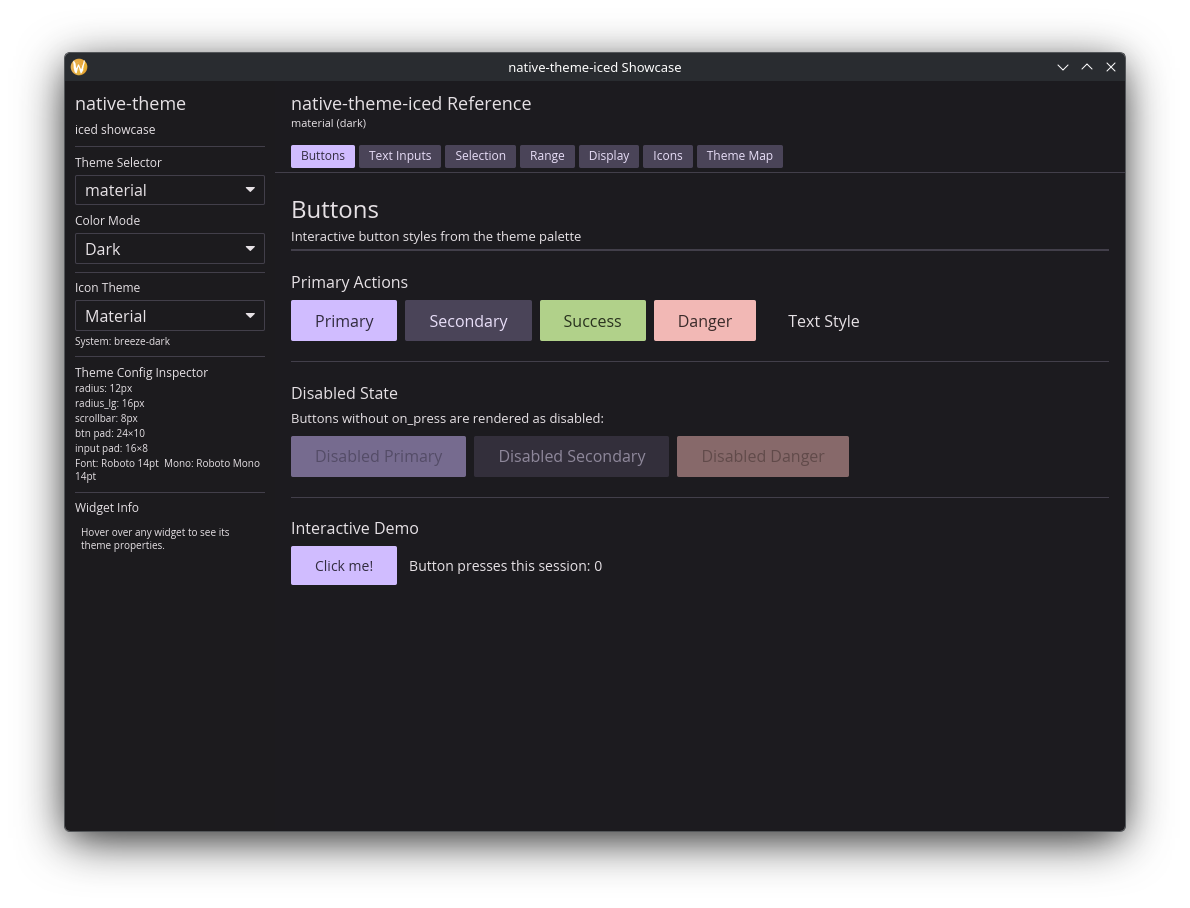
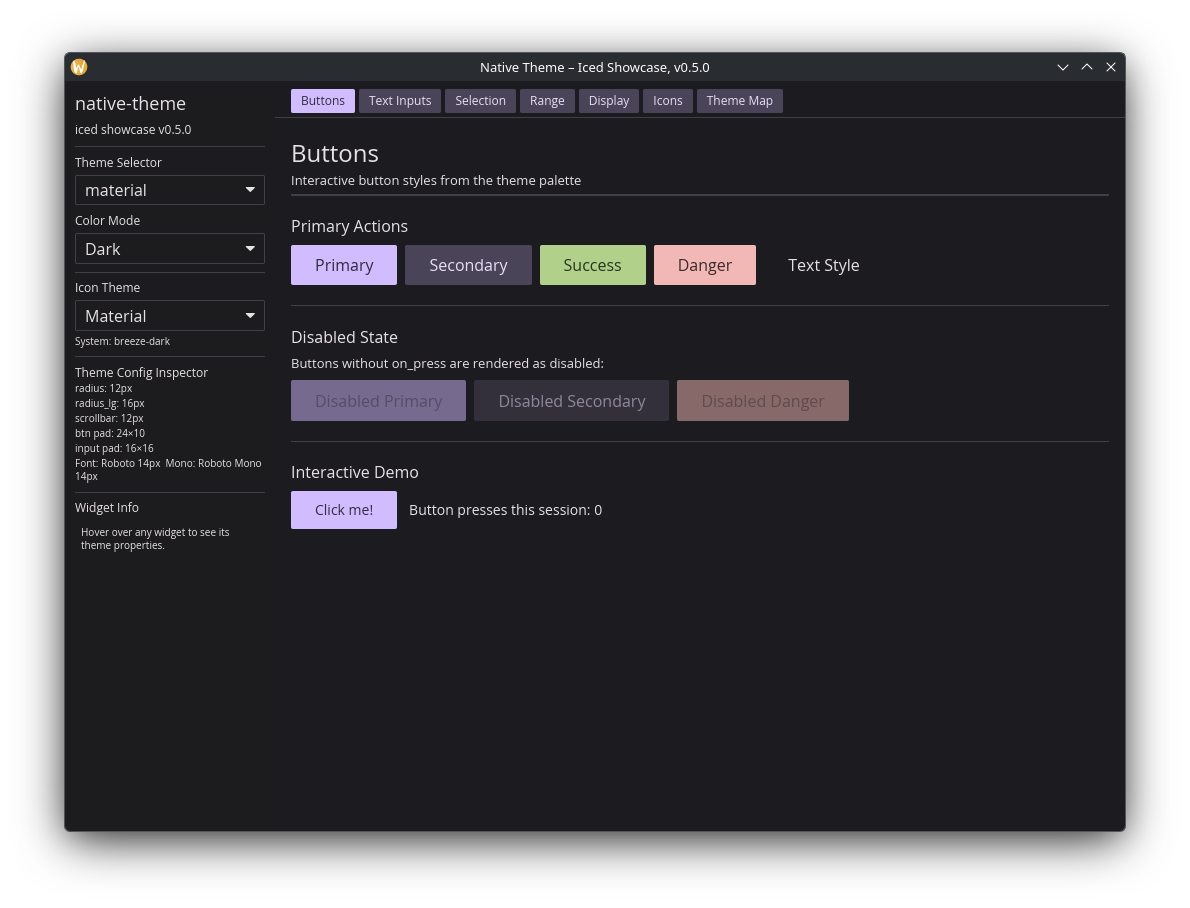
fix: objc2 0.6 unsafe removal, windows cfg fallback, updated screenshots
- Remove unnecessary unsafe blocks for objc2 0.6 APIs (NSColor, NSFont,
  NSAppearance, NSWorkspace methods are now safe)
- Fix read_widget_sizing fallback cfg: not(target_os) → not(all(target_os, feature))
- Update scripts/README.md command style (bash scripts/ → ./)
- Refresh Linux showcase screenshots for v0.5.0 per-widget themes

Changed region(s): [[0.1244, 0.0617, 0.9328, 0.6476]]

diff --git a/native-theme/src/macos.rs b/native-theme/src/macos.rs
@@ -23,11 +23,11 @@ use objc2_foundation::{NSDictionary, NSNumber, NSString};
 /// color cannot be converted (e.g., pattern colors).
 #[cfg(all(target_os = "macos", feature = "macos"))]
 fn nscolor_to_rgba(color: &NSColor, srgb: &NSColorSpace) -> Option<crate::Rgba> {
-    let srgb_color = unsafe { color.colorUsingColorSpace(srgb) }?;
-    let r = unsafe { srgb_color.redComponent() } as f32;
-    let g = unsafe { srgb_color.greenComponent() } as f32;
-    let b = unsafe { srgb_color.blueComponent() } as f32;
-    let a = unsafe { srgb_color.alphaComponent() } as f32;
+    let srgb_color = color.colorUsingColorSpace(srgb)?;
+    let r = srgb_color.redComponent() as f32;
+    let g = srgb_color.greenComponent() as f32;
+    let b = srgb_color.blueComponent() as f32;
+    let a = srgb_color.alphaComponent() as f32;
     Some(crate::Rgba::from_f32(r, g, b, a))
 }
 
@@ -50,34 +50,34 @@ struct PerWidgetColors {
 /// dynamic colors resolve to the correct appearance.
 #[cfg(all(target_os = "macos", feature = "macos"))]
 fn read_appearance_colors() -> (crate::ThemeDefaults, PerWidgetColors) {
-    let srgb = unsafe { NSColorSpace::sRGBColorSpace() };
+    let srgb = NSColorSpace::sRGBColorSpace();
 
     // Bind all NSColor temporaries before borrowing them.
-    let label_c = unsafe { NSColor::labelColor() };
-    let control_accent = unsafe { NSColor::controlAccentColor() };
-    let window_bg = unsafe { NSColor::windowBackgroundColor() };
-    let control_bg = unsafe { NSColor::controlBackgroundColor() };
-    let separator_c = unsafe { NSColor::separatorColor() };
-    let secondary_label = unsafe { NSColor::secondaryLabelColor() };
-    let shadow_c = unsafe { NSColor::shadowColor() };
-    let alt_sel_text = unsafe { NSColor::alternateSelectedControlTextColor() };
-    let system_red = unsafe { NSColor::systemRedColor() };
-    let system_orange = unsafe { NSColor::systemOrangeColor() };
-    let system_green = unsafe { NSColor::systemGreenColor() };
-    let system_blue = unsafe { NSColor::systemBlueColor() };
-    let sel_content_bg = unsafe { NSColor::selectedContentBackgroundColor() };
-    let sel_text = unsafe { NSColor::selectedTextColor() };
-    let link_c = unsafe { NSColor::linkColor() };
-    let focus_c = unsafe { NSColor::keyboardFocusIndicatorColor() };
-    let disabled_text = unsafe { NSColor::disabledControlTextColor() };
+    let label_c = NSColor::labelColor();
+    let control_accent = NSColor::controlAccentColor();
+    let window_bg = NSColor::windowBackgroundColor();
+    let control_bg = NSColor::controlBackgroundColor();
+    let separator_c = NSColor::separatorColor();
+    let secondary_label = NSColor::secondaryLabelColor();
+    let shadow_c = NSColor::shadowColor();
+    let alt_sel_text = NSColor::alternateSelectedControlTextColor();
+    let system_red = NSColor::systemRedColor();
+    let system_orange = NSColor::systemOrangeColor();
+    let system_green = NSColor::systemGreenColor();
+    let system_blue = NSColor::systemBlueColor();
+    let sel_content_bg = NSColor::selectedContentBackgroundColor();
+    let sel_text = NSColor::selectedTextColor();
+    let link_c = NSColor::linkColor();
+    let focus_c = NSColor::keyboardFocusIndicatorColor();
+    let disabled_text = NSColor::disabledControlTextColor();
 
     // Additional per-widget color bindings (MACOS-03).
-    let placeholder_c = unsafe { NSColor::placeholderTextColor() };
-    let unemph_sel_bg = unsafe { NSColor::unemphasizedSelectedContentBackgroundColor() };
-    let alt_bg_colors = unsafe { NSColor::alternatingContentBackgroundColors() };
-    let header_text_c = unsafe { NSColor::headerTextColor() };
-    let grid_c = unsafe { NSColor::gridColor() };
-    let frame_text_c = unsafe { NSColor::windowFrameTextColor() };
+    let placeholder_c = NSColor::placeholderTextColor();
+    let unemph_sel_bg = NSColor::unemphasizedSelectedContentBackgroundColor();
+    let alt_bg_colors = NSColor::alternatingContentBackgroundColors();
+    let header_text_c = NSColor::headerTextColor();
+    let grid_c = NSColor::gridColor();
+    let frame_text_c = NSColor::windowFrameTextColor();
 
     let label = nscolor_to_rgba(&label_c, &srgb);
 
@@ -141,13 +141,13 @@ fn read_scrollbar_style(mtm: objc2::MainThreadMarker) -> Option<bool> {
 /// text_scaling_factor is derived by comparing the system font size to the default (13pt).
 #[cfg(all(target_os = "macos", feature = "macos"))]
 fn read_accessibility() -> (Option<bool>, Option<bool>, Option<bool>, Option<f32>) {
-    let workspace = unsafe { NSWorkspace::sharedWorkspace() };
+    let workspace = NSWorkspace::sharedWorkspace();
     let reduce_motion = Some(workspace.accessibilityDisplayShouldReduceMotion());
     let high_contrast = Some(workspace.accessibilityDisplayShouldIncreaseContrast());
     let reduce_transparency = Some(workspace.accessibilityDisplayShouldReduceTransparency());
 
     // Derive text scaling factor from system font size vs default 13pt.
-    let system_size = unsafe { NSFont::systemFontSize() } as f32;
+    let system_size = NSFont::systemFontSize() as f32;
     let text_scaling_factor = if (system_size - 13.0).abs() > 0.01 {
         Some(system_size / 13.0)
     } else {
@@ -178,7 +178,7 @@ fn nsfont_weight_to_css(font: &NSFont) -> Option<u16> {
     let weight_key: &NSString = unsafe { NSFontWeightTrait };
     let weight_obj = traits_dict.objectForKey(weight_key)?;
     // Safety: the weight trait value is an NSNumber wrapping a CGFloat.
-    let weight_num: &NSNumber = unsafe { &*(weight_obj as *const _ as *const NSNumber) };
+    let weight_num: &NSNumber = unsafe { &*(&*weight_obj as *const _ as *const NSNumber) };
     let w = unsafe { weight_num.doubleValue() };
 
     // Map AppKit weight range to CSS weight buckets.
@@ -209,7 +209,7 @@ fn nsfont_weight_to_css(font: &NSFont) -> Option<u16> {
 fn fontspec_from_nsfont(font: &NSFont) -> crate::FontSpec {
     crate::FontSpec {
         family: font.familyName().map(|n| n.to_string()),
-        size: Some(unsafe { font.pointSize() } as f32),
+        size: Some(font.pointSize() as f32),
         weight: nsfont_weight_to_css(font),
     }
 }
@@ -220,8 +220,8 @@ fn fontspec_from_nsfont(font: &NSFont) -> crate::FontSpec {
 /// (not per-appearance). Includes CSS weight extraction from the font descriptor.
 #[cfg(all(target_os = "macos", feature = "macos"))]
 fn read_fonts() -> (crate::FontSpec, crate::FontSpec) {
-    let system_size = unsafe { NSFont::systemFontSize() };
-    let system_font = unsafe { NSFont::systemFontOfSize(system_size) };
+    let system_size = NSFont::systemFontSize();
+    let system_font = NSFont::systemFontOfSize(system_size);
     let mono_font =
         unsafe { NSFont::monospacedSystemFontOfSize_weight(system_size, NSFontWeightRegular) };
 
@@ -236,9 +236,9 @@ fn read_fonts() -> (crate::FontSpec, crate::FontSpec) {
 /// Appearance-independent -- called once. Returns (menu, tooltip, title_bar).
 #[cfg(all(target_os = "macos", feature = "macos"))]
 fn read_per_widget_fonts() -> (crate::FontSpec, crate::FontSpec, crate::FontSpec) {
-    let menu_font = unsafe { NSFont::menuFontOfSize(0.0) };
-    let tooltip_font = unsafe { NSFont::toolTipsFontOfSize(0.0) };
-    let title_bar_font = unsafe { NSFont::titleBarFontOfSize(0.0) };
+    let menu_font = NSFont::menuFontOfSize(0.0);
+    let tooltip_font = NSFont::toolTipsFontOfSize(0.0);
+    let title_bar_font = NSFont::titleBarFontOfSize(0.0);
 
     (
         fontspec_from_nsfont(&menu_font),
@@ -289,7 +289,7 @@ fn compute_text_scale(system_size: f32) -> crate::TextScale {
 /// computation from the system font size.
 #[cfg(all(target_os = "macos", feature = "macos"))]
 fn read_text_scale() -> crate::TextScale {
-    let system_size = unsafe { NSFont::systemFontSize() } as f32;
+    let system_size = NSFont::systemFontSize() as f32;
     compute_text_scale(system_size)
 }
 
@@ -425,8 +425,8 @@ pub fn from_macos() -> crate::Result<crate::NativeTheme> {
     let light_name = NSString::from_str("NSAppearanceNameAqua");
     let dark_name = NSString::from_str("NSAppearanceNameDarkAqua");
 
-    let light_appearance = unsafe { NSAppearance::appearanceNamed(&light_name) };
-    let dark_appearance = unsafe { NSAppearance::appearanceNamed(&dark_name) };
+    let light_appearance = NSAppearance::appearanceNamed(&light_name);
+    let dark_appearance = NSAppearance::appearanceNamed(&dark_name);
 
     if light_appearance.is_none() && dark_appearance.is_none() {
         return Err(crate::Error::Unavailable(

diff --git a/native-theme/src/windows.rs b/native-theme/src/windows.rs
@@ -249,7 +249,7 @@ fn read_widget_sizing(dpi: u32, variant: &mut crate::ThemeVariant) {
 }
 
 /// Apply WinUI3 Fluent Design widget sizing constants (non-Windows testable version).
-#[cfg(not(target_os = "windows"))]
+#[cfg(not(all(target_os = "windows", feature = "windows")))]
 fn read_widget_sizing(_dpi: u32, variant: &mut crate::ThemeVariant) {
     variant.scrollbar.width = Some(17.0);
     variant.scrollbar.min_thumb_height = Some(40.0);

diff --git a/scripts/README.md b/scripts/README.md
@@ -10,7 +10,7 @@ Master orchestration script. Runs all four asset generators in sequence:
 spinner GIFs, iced screenshots, gpui screenshots, and theme-switching GIFs.
 
 ```sh
-bash scripts/generate_assets.sh
+./scripts/generate_assets.sh
 ```
 
 ## generate_gifs.py
@@ -44,7 +44,7 @@ On macOS/Windows, use the showcase's built-in `--screenshot` flag instead.
 Requires: spectacle (KDE)
 
 ```sh
-bash scripts/generate_screenshots.sh
+./scripts/generate_screenshots.sh
 ```
 
 ## generate_gpui_screenshots.sh
@@ -55,7 +55,7 @@ Same as `generate_screenshots.sh` but for the gpui showcase. Includes
 Requires: spectacle (KDE)
 
 ```sh
-bash scripts/generate_gpui_screenshots.sh
+./scripts/generate_gpui_screenshots.sh
 ```
 
 ## generate_theme_switching_gif.sh
@@ -68,7 +68,7 @@ Produces: `iced-theme-switching.gif` and `gpui-theme-switching.gif`.
 Requires: spectacle (KDE), Python 3, Pillow
 
 ```sh
-bash scripts/generate_theme_switching_gif.sh
+./scripts/generate_theme_switching_gif.sh
 ```
 
 ## pre-release.sh
@@ -80,5 +80,5 @@ the CI artifacts into `docs/assets/`.
 Requires: gh CLI (authenticated), spectacle, Python 3, Pillow, ImageMagick 7
 
 ```sh
-bash scripts/pre-release.sh
+./scripts/pre-release.sh
 ```
